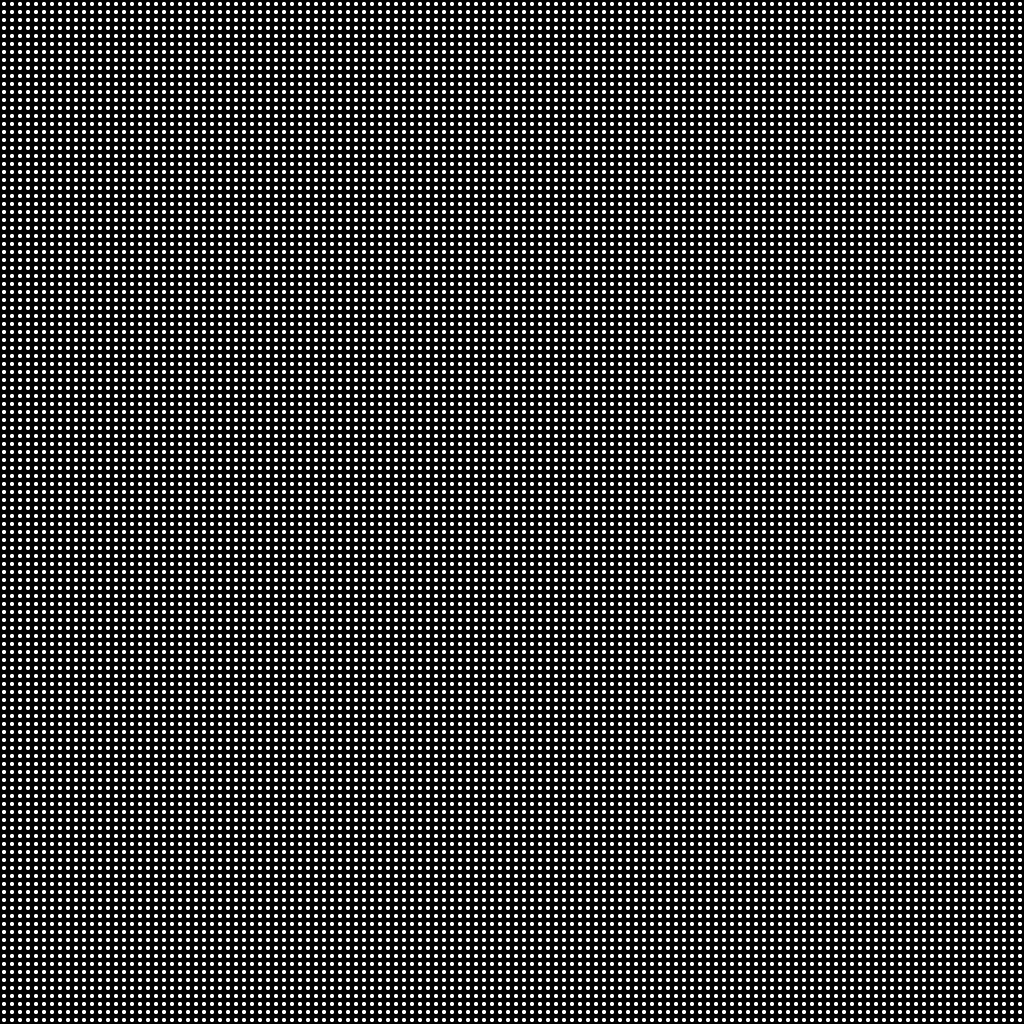
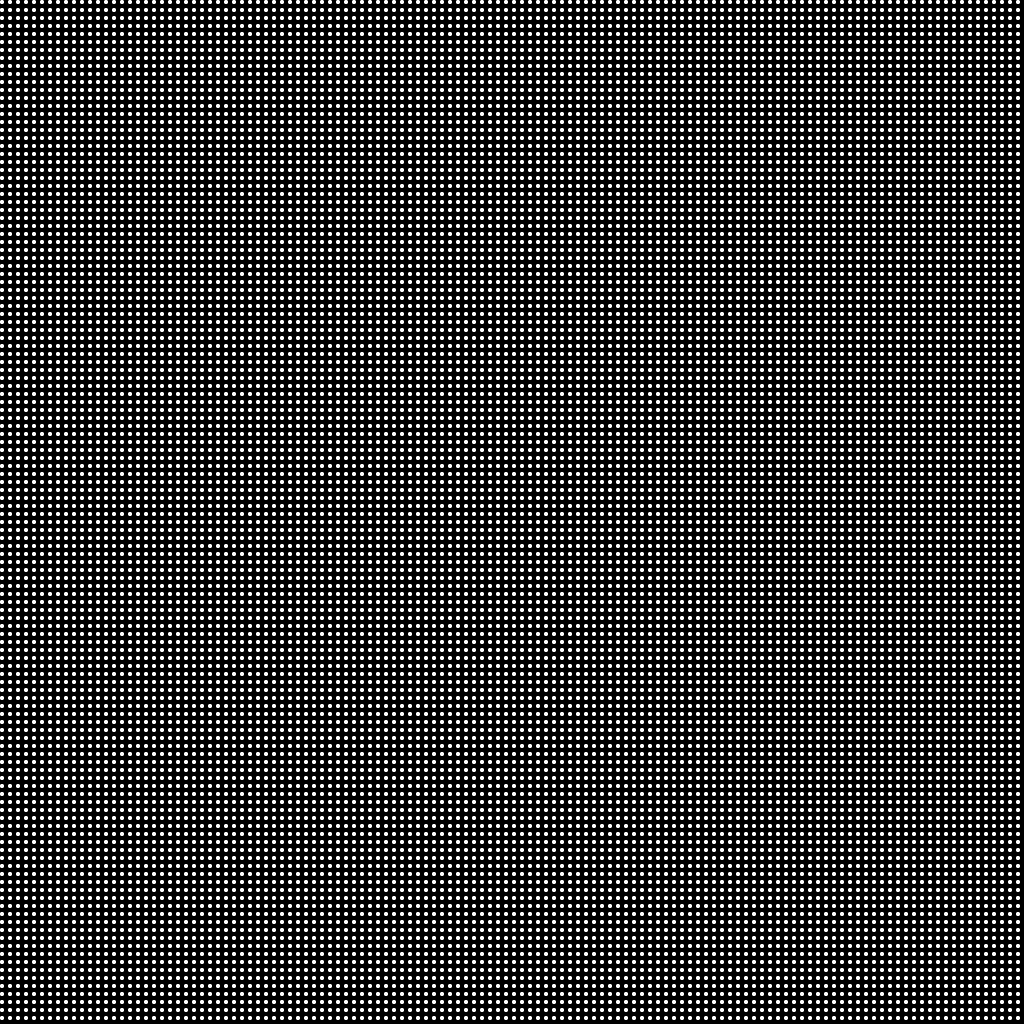
pushpush

diff --git a/__main__.py b/__main__.py
@@ -4,7 +4,7 @@ import random
 
 from bitmapfont import BitmapFont
 
-WIN_W, WIN_H = 1024, 1024
+WIN_W, WIN_H = 1729, 1792
 SCR_W, SCR_H = 256, 256
 
 COLORS = {'red': (255, 0, 0),
@@ -44,6 +44,8 @@ class Game():
                 if y % stepy == 0:
                     for i in range(int(stepy/2)):
                         pygame.draw.line(self.overlay, (0, 0, 0, 255), (0, y+i), (WIN_W, y+i))
+
+            self.overlay = pygame.image.load('gfx/raster1792.png')
 
         self.running = False
 
